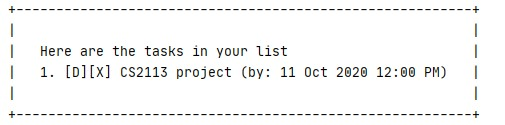
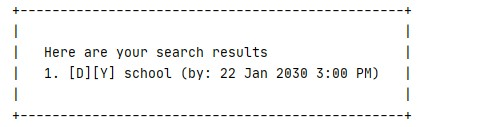
Update ui for find command
The heading for find command seems too similar to list command.

Lets have the find command have its own unique heading.

diff --git a/src/main/java/duke/ui/TaskUi.java b/src/main/java/duke/ui/TaskUi.java
@@ -10,6 +10,7 @@ import java.util.ArrayList;
 public class TaskUi extends Ui {
     private static final String ERROR_LIST_EMPTY = "No task in your list. Add some!";
     private static final String ERROR_TASK_TYPE_NOT_FOUND = "Task type is not found";
+    private static final String ERROR_SEARCH_NOT_FOUND = "No task found based on your specified parameters";
 
     private static final String PRINT_TASK_LIST_HEADING = "Here are the tasks in your list";
     private static final String PRINT_NUMBER_OF_TASK = "You now have a total of %d tasks in the list";
@@ -17,7 +18,7 @@ public class TaskUi extends Ui {
     private static final String PRINT_TASK_REMOVE_HEADING = "Understood, removed task %d:";
     private static final String PRINT_TASK_DONE_HEADING = "Understood, setting task %d as done:";
     private static final String PRINT_TASK_NOT_DONE_HEADING = "Understood, reverting task %d back as not done:";
-    private static final String ERROR_SEARCH_NOT_FOUND = "No task found based on your specified parameters";
+    private static final String PRINT_TASK_SEARCH_HEADING = "Here are your search results";
 
     /**
      * Prints output to user after a task is successfully added.
@@ -66,9 +67,18 @@ public class TaskUi extends Ui {
      * @param tasks An array list of tasks to be printed out
      */
     public void printTasksList(ArrayList<Task> tasks) {
-        ArrayList<String> outputText;
+        ArrayList<String> outputText = new ArrayList<>();
 
-        outputText = addOutputText(tasks);
+        outputText.add(PRINT_TASK_LIST_HEADING);
+        addOutputText(outputText, tasks);
+        generateMultiLineTextBorder(outputText);
+    }
+
+    public void printSearchTasksList(ArrayList<Task> tasks) {
+        ArrayList<String> outputText = new ArrayList<>();
+
+        outputText.add(PRINT_TASK_SEARCH_HEADING);
+        addOutputText(outputText, tasks);
         generateMultiLineTextBorder(outputText);
     }
 
@@ -90,16 +100,11 @@ public class TaskUi extends Ui {
      * It also pads the task with its corresponding list number.
      *
      * @param tasks An array list of tasks of type task.
-     * @return ArrayList of tasks in type string.
      */
-    private ArrayList<String> addOutputText(ArrayList<Task> tasks) {
-        ArrayList<String> outputText = new ArrayList<>();
-
-        outputText.add(PRINT_TASK_LIST_HEADING);
+    private void addOutputText(ArrayList<String> outputText, ArrayList<Task> tasks) {
         for (int i = 0; i < tasks.size(); i++) {
             outputText.add((i + 1) + ". " + tasks.get(i));
         }
 
-        return outputText;
     }
 }

diff --git a/src/main/java/duke/task/TaskManager.java b/src/main/java/duke/task/TaskManager.java
@@ -105,7 +105,7 @@ public class TaskManager implements TaskAction {
             filteredTasks = filterByDate(filteredTasks, matchDate, timeSearch);
         }
 
-        printTasks(filteredTasks);
+        printSearchTasks(filteredTasks);
     }
 
     /**
@@ -183,13 +183,13 @@ public class TaskManager implements TaskAction {
      *
      * @param tasks ArrayList of tasks to be printed out.
      */
-    private void printTasks(ArrayList<Task> tasks) {
+    private void printSearchTasks(ArrayList<Task> tasks) {
         if (tasks.size() == LIST_EMPTY) {
             taskUi.printTaskListSearchEmpty();
             return;
         }
 
-        taskUi.printTasksList(tasks);
+        taskUi.printSearchTasksList(tasks);
     }
 
     /**

diff --git a/docs/README.md b/docs/README.md
@@ -115,6 +115,9 @@ Find tasks which contains any of the given keywords or dates.
 - The search using keyword is case-insensitive. e.g `cs2113` will match `CS2113`
 - The date can be replaced with today to find tasks on today's date.
 - Todo tasks will have their date set as today's date.
+- To search any tasks on the given date , use the `/on` literal
+- To search any tasks after the given date , use the `/af` literal
+- To search any tasks before the given date, use the `/bf` literal
 
 `find (KEYWORD) (/on <DATE>)`
 
